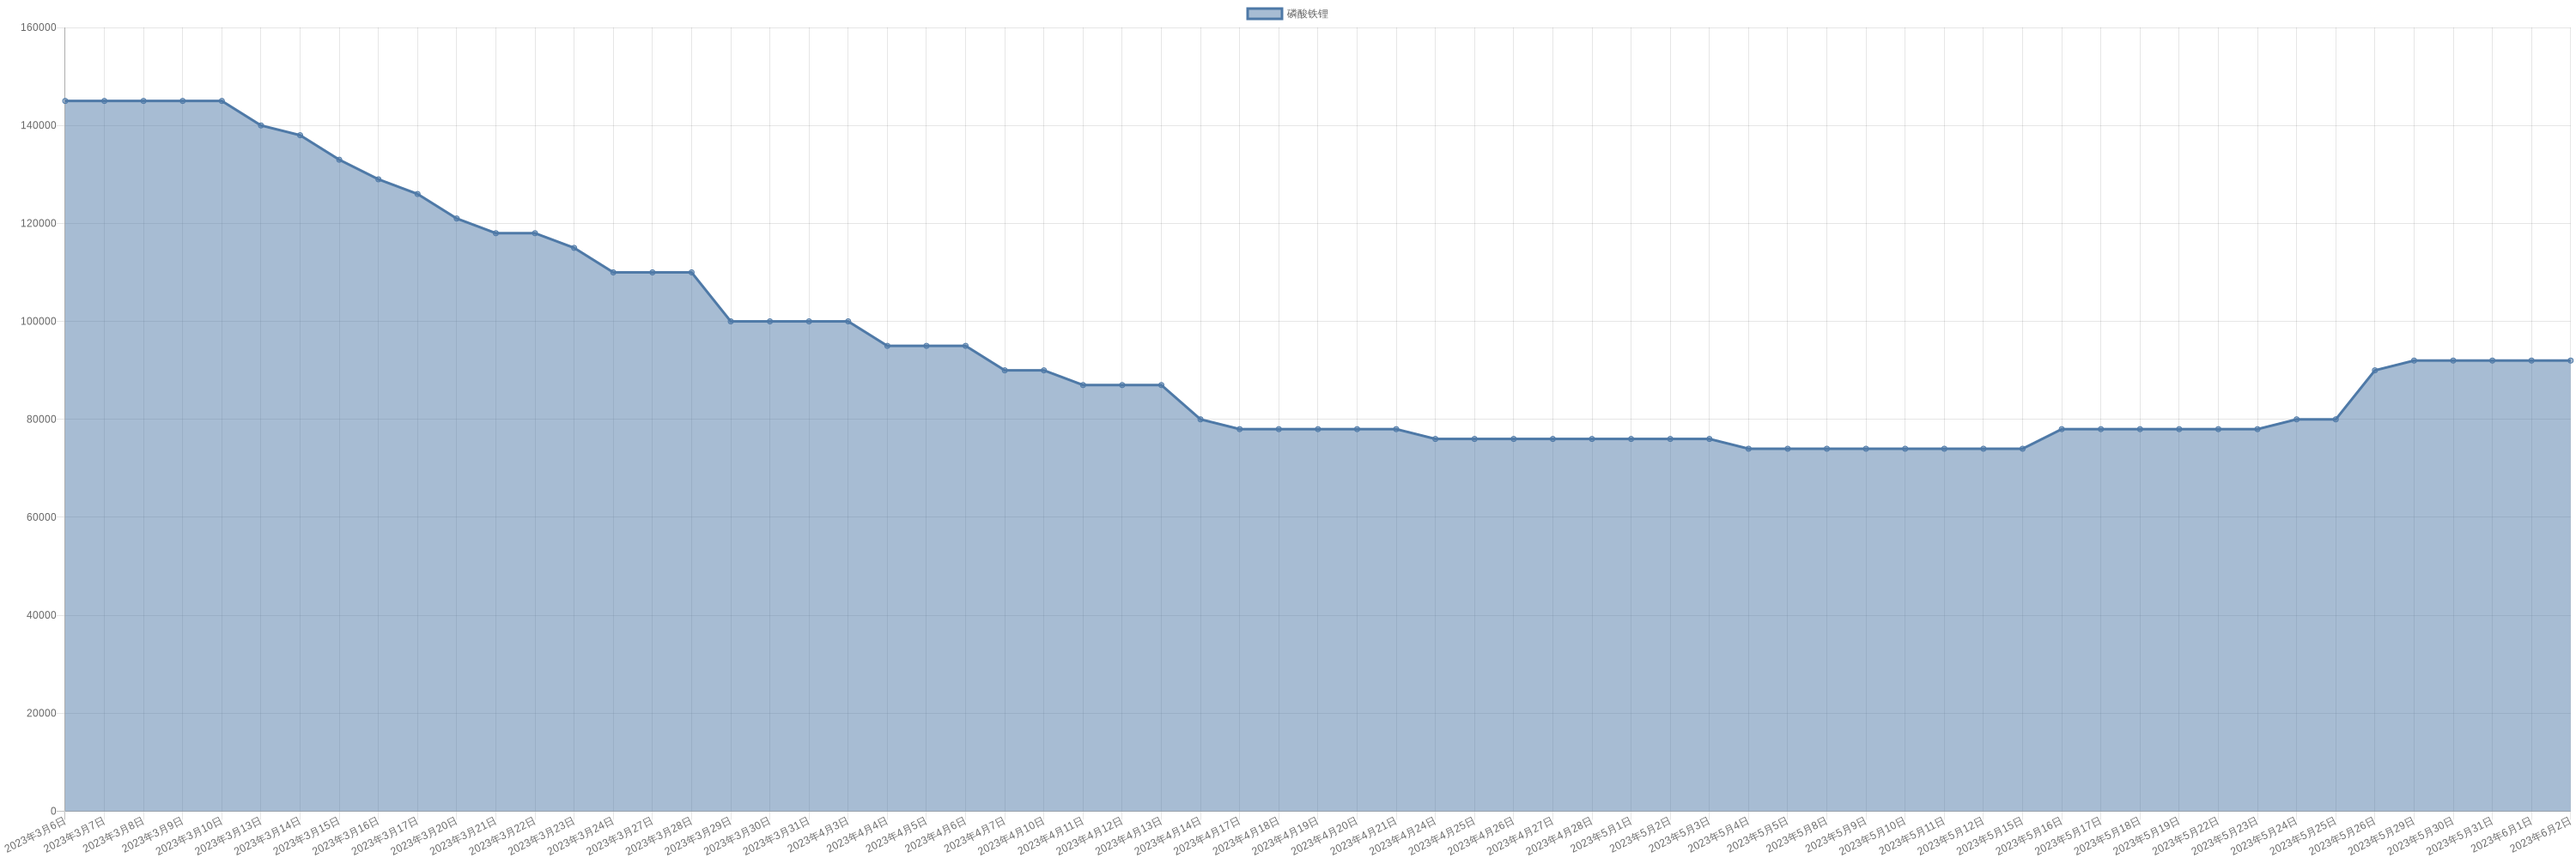
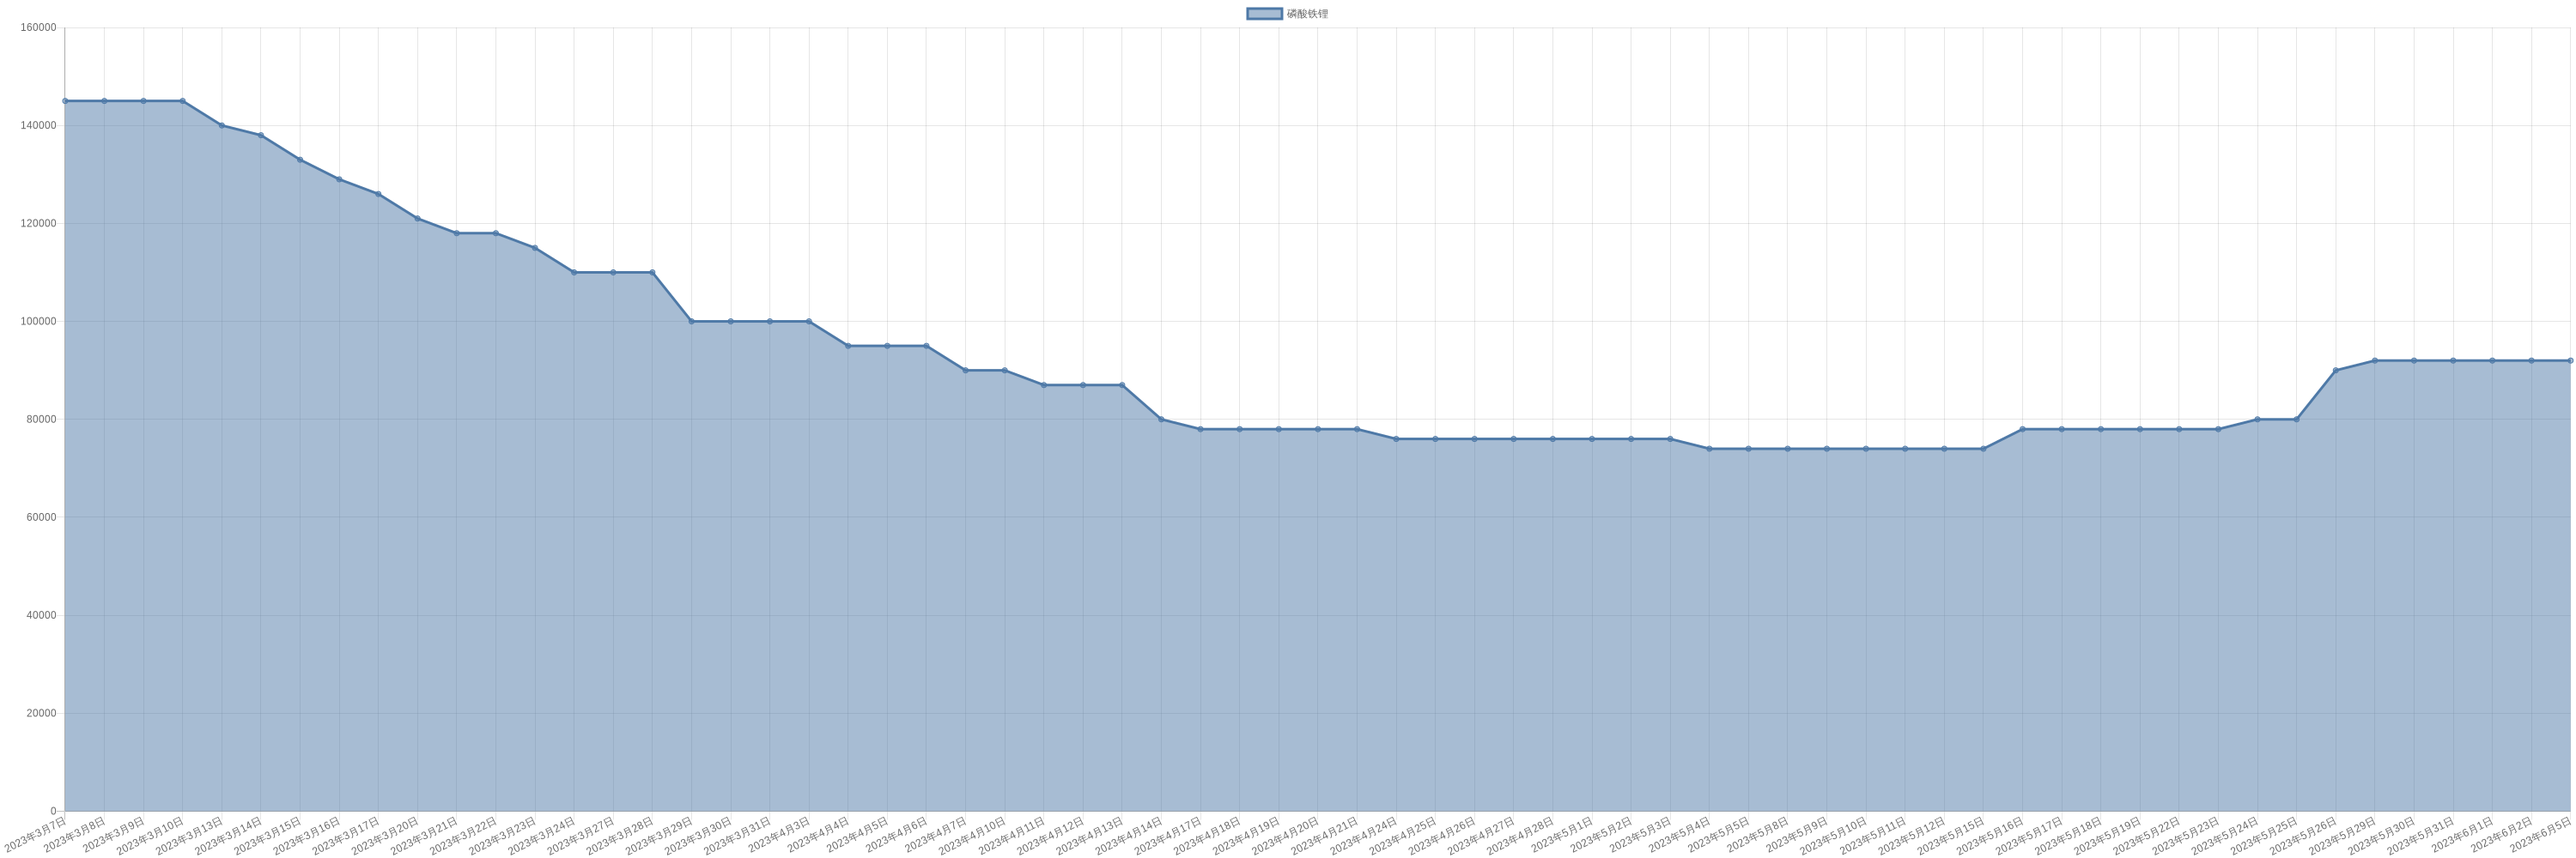
chore: sync commodity monitor

diff --git a/markdown/commodity/dysprosiumOxide.md b/markdown/commodity/dysprosiumOxide.md
@@ -8,6 +8,8 @@
 
 | 时间 | 价格 | 消息正文 |
 |:--:|:--:|:--:|
+|2023年6月5日|2080000|6月5日氧化镝为2080000.00|
+|2023年6月2日|2080000|6月2日氧化镝为2080000.00|
 |2023年6月1日|2105000|6月1日氧化镝为2105000.00|
 |2023年5月31日|2115000|5月31日氧化镝为2115000.00|
 |2023年5月30日|2130000|5月30日氧化镝为2130000.00|

diff --git a/markdown/commodity/crudeOil.md b/markdown/commodity/crudeOil.md
@@ -2,6 +2,8 @@
 
 | 时间 | 价格 | 消息正文 |
 |:--:|:--:|:--:|
+|2023年6月5日WTI|71.74|6月5日WTI原油为71.74|
+|2023年6月5日Brent|76.13|6月5日Brent原油为76.13|
 |2023年6月2日Brent|74.28|6月2日Brent原油为74.28|
 |2023年6月2日WTI|70.1|6月2日WTI原油为70.10|
 |2023年6月1日WTI|68.09|6月1日WTI原油为68.09|

diff --git a/markdown/commodity/praseodymiumNeodymiumOxide.md b/markdown/commodity/praseodymiumNeodymiumOxide.md
@@ -8,6 +8,7 @@
 
 | 时间 | 价格 | 消息正文 |
 |:--:|:--:|:--:|
+|2023年6月5日|490000|6月5日镨钕氧化物为490000.00|
 |2023年6月2日|490000|6月2日镨钕氧化物为490000.00|
 |2023年6月1日|492500|6月1日镨钕氧化物为492500.00|
 |2023年5月31日|500000|5月31日镨钕氧化物为500000.00|

diff --git a/markdown/commodity/dyFeAlloy.md b/markdown/commodity/dyFeAlloy.md
@@ -8,6 +8,7 @@
 
 | 时间 | 价格 | 消息正文 |
 |:--:|:--:|:--:|
+|2023年6月2日|2050000|6月2日镝铁合金为2050000.00|
 |2023年6月1日|2070000|6月1日镝铁合金为2070000.00|
 |2023年5月31日|2070000|5月31日镝铁合金为2070000.00|
 |2023年5月30日|2080000|5月30日镝铁合金为2080000.00|

diff --git a/markdown/commodity/dysprosiumMetal.md b/markdown/commodity/dysprosiumMetal.md
@@ -8,6 +8,7 @@
 
 | 时间 | 价格 | 消息正文 |
 |:--:|:--:|:--:|
+|2023年6月5日|2680000|6月5日金属镝为2680000.00|
 |2023年6月2日|2680000|6月2日金属镝为2680000.00|
 |2023年6月1日|2680000|6月1日金属镝为2680000.00|
 |2023年5月31日|2680000|5月31日金属镝为2680000.00|

diff --git a/markdown/commodity/lithiumIronPhosphate.md b/markdown/commodity/lithiumIronPhosphate.md
@@ -8,6 +8,7 @@
 
 | 时间 | 价格 | 消息正文 |
 |:--:|:--:|:--:|
+|2023年6月5日|92000|6月5日磷酸铁锂为92000.00|
 |2023年6月2日|92000|6月2日磷酸铁锂为92000.00|
 |2023年6月1日|92000|6月1日磷酸铁锂为92000.00|
 |2023年5月31日|92000|5月31日磷酸铁锂为92000.00|

diff --git a/markdown/commodity/neodymiumOxide.md b/markdown/commodity/neodymiumOxide.md
@@ -8,6 +8,7 @@
 
 | 时间 | 价格 | 消息正文 |
 |:--:|:--:|:--:|
+|2023年6月2日|500000|6月2日氧化钕为500000.00|
 |2023年6月1日|505000|6月1日氧化钕为505000.00|
 |2023年5月31日|510000|5月31日氧化钕为510000.00|
 |2023年5月30日|520000|5月30日氧化钕为520000.00|

diff --git a/markdown/commodity/praseodymium.md b/markdown/commodity/praseodymium.md
@@ -8,6 +8,7 @@
 
 | 时间 | 价格 | 消息正文 |
 |:--:|:--:|:--:|
+|2023年6月2日|635000|6月2日金属镨为635000.00|
 |2023年6月1日|635000|6月1日金属镨为635000.00|
 |2023年5月31日|635000|5月31日金属镨为635000.00|
 |2023年5月30日|635000|5月30日金属镨为635000.00|
